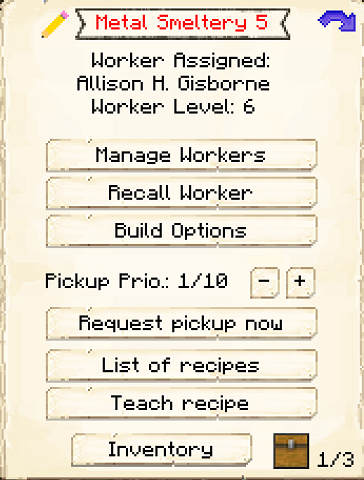
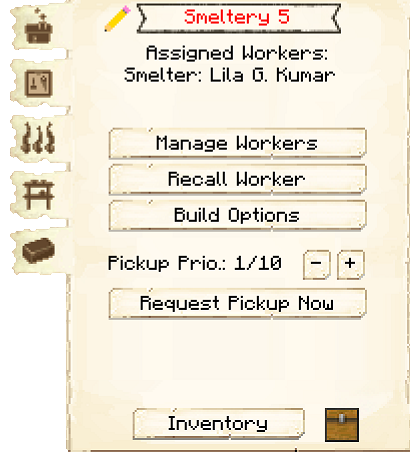
Smeltery Hut Update (#804)
* Smeltery Hut Update

* Fixed crafting recipe tab

* Removed some double spaces

* Removed some double spaces

diff --git a/pages/src/source/buildings/smeltery.md b/pages/src/source/buildings/smeltery.md
@@ -19,58 +19,16 @@ The Smeltery is where the Smelter will smelt ores into ingots.
 
 ## Smeltery GUI
 
-When accessing the Smeltery's hut block by right-clicking on it, you will see a GUI with different options:  
-
 <div class="row">
-  <div class="col-sm-12 col-md">
-    <img src="../../assets/images/gui/smelterygui1.png" class="img-fluid mx-auto" alt="Smeltery GUI">
-  </div>
-  <div class="col-sm-12 col-md">
-    <br>
-    <ul>
-      {% for item in site.data.gui.global %}
-        <li><strong>{{ item.button }}:</strong> {{ item.content }}</li>
-      {% endfor %}
-    </ul>
+  <div class="col">
+    {% include contentblock/main-gui.html header="When accessing the Smeltery hut block by right-clicking on it, you will see a GUI with different options. You start on the main tab:" image="../../assets/images/gui/smelterygui1.png" %}
+
+    {% include contentblock/basic.html header="The second tab of the GUI is <strong>Custom Recipes</strong>." content="Here you can see all the crafting recipes this hut knows. The arrows allow you to move them up or down in priority. You are also able to disable specific recipes." image="../../assets/images/gui/smelterygui2.png" %}
+
+    {% include contentblock/basic.html header="The third tab of the GUI is <strong>Fuel</strong>." content="Listed here are items that can be used by the Smeltery as fuel in their furnaces. Simply turn on any that you want your Smelter to use, and a Courier will deliver those items to the Smelter when they need fuel. All items are off by default. The black box at the top is to search for items." image="../../assets/images/gui/smelterygui3.png" %}
+
+    {% include contentblock/stock-gui.html buildingname="Smeltery" header="The fourth tab of the GUI is <strong>Minimum Stock</strong>. It has one button:" image="../../assets/images/gui/smelterygui4.png" %}
+
+    {% include contentblock/basic.html header="The fifth tab of the GUI is <strong>Smeltable Ore</strong>." content="Listed here are all ore blocks the Smeltery can smelt. All ores are on by default. Turn off any ores you do not want smelted. All coded ores (even if they come from other mods) are automatically added to this list. If you have ores that are not on the list, they can be added to the <a href='../../source/misc/configfile'>config file</a>. The black box at the top is to search for items." image="../../assets/images/gui/smelterygui5.png" %}
   </div>
 </div>
-<br>
-
-<div class="row">
-  <div class="col-sm-12 col-md">
-    <img src="../../assets/images/gui/smelterygui2.png" class="img-fluid mx-auto" alt="Smeltery GUI 2">
-  </div>
-  <div class="col-sm-12 col-md">
-    <ul>
-      <li><strong>Fuel: </strong>Listed here are items that can be used by the Smelter as fuel in their furnaces. Turn on any that you want your Smelter to use, and a Courier will deliver those items to the Smelter when they need fuel. (The black box at the top is to search for items.)
-      </li>
-    </ul>
-  </div>
-</div>  
-<br>
-<br>
-
-<div class="row">
-  <div class="col-sm-12 col-md">
-    <img src="../../assets/images/gui/smelterygui3.png" class="img-fluid mx-auto" alt="Smeltery GUI 3">
-  </div>
-  <div class="col-sm-12 col-md">
-    <ul>
-      <li><strong>Smeltable Ore: </strong>Listed here are ores that can be smelted by the Smelter. You can click to turn each one on or off. All coded ores (even if they come from other mods) are automatically added to this list. If you have ores that are not on the list, they can be added to the <a href="../../source/misc/configfile">config file</a>. 
-      </li>
-    </ul>
-  </div>
-</div>
-<br>
-
-<div class="row">
-  <div class="col-sm-12 col-md">
-    <img src="../../assets/images/gui/minstockgui.png" class="img-fluid mx-auto" alt="Smeltery GUI 4">
-  </div>
-  <div class="col-sm-12 col-md">
-    <ul>
-        <li><strong> Minimum Stock: </strong> Use this button to tell the Smeltery to keep a minimum stock on hand. Set items will be displayed above the button.</li>
-    </ul>
-  </div>
-</div>
-<br>

diff --git a/pages/src/source/buildings/concretemixer.md b/pages/src/source/buildings/concretemixer.md
@@ -21,7 +21,7 @@ The Concrete Mixer will craft all types of concrete powder and place them in flo
   <div class="col">
     {% include contentblock/main-gui.html header="When accessing the Concrete Mixer's Hut block by right-clicking on it, you will see a GUI with different options. You start on the main tab:" image="../../assets/images/gui/concretemixergui.png" %}
 
-    {% include contentblock/basic.html header="The second tab of the GUI is <strong>Crafting Recipes</strong>." content="Here you can see all the crafting recipes this hut knows.  The arrows allow you to move them up or down in priority.  You are also able to disable specific recipes.<p><strong> Teach Recipe:</strong> When clicking teach recipe, it opens a crafting grid which allows you to teach this hut recipes (not the worker).</p>" image="../../assets/images/gui/concretemixergui2.png" %}
+    {% include contentblock/basic.html header="The second tab of the GUI is <strong>Crafting Recipes</strong>." content="Here you can see all the crafting recipes this hut knows. The arrows allow you to move them up or down in priority. You are also able to disable specific recipes." image="../../assets/images/gui/concretemixergui2.png" %}
 
     {% include contentblock/basic.html header="The third tab of the GUI is <strong>Tasks</strong>." content="This tab shows you any requests the hut is working on, and where it is going." image="../../assets/images/gui/concretemixergui3.png" %}
 
